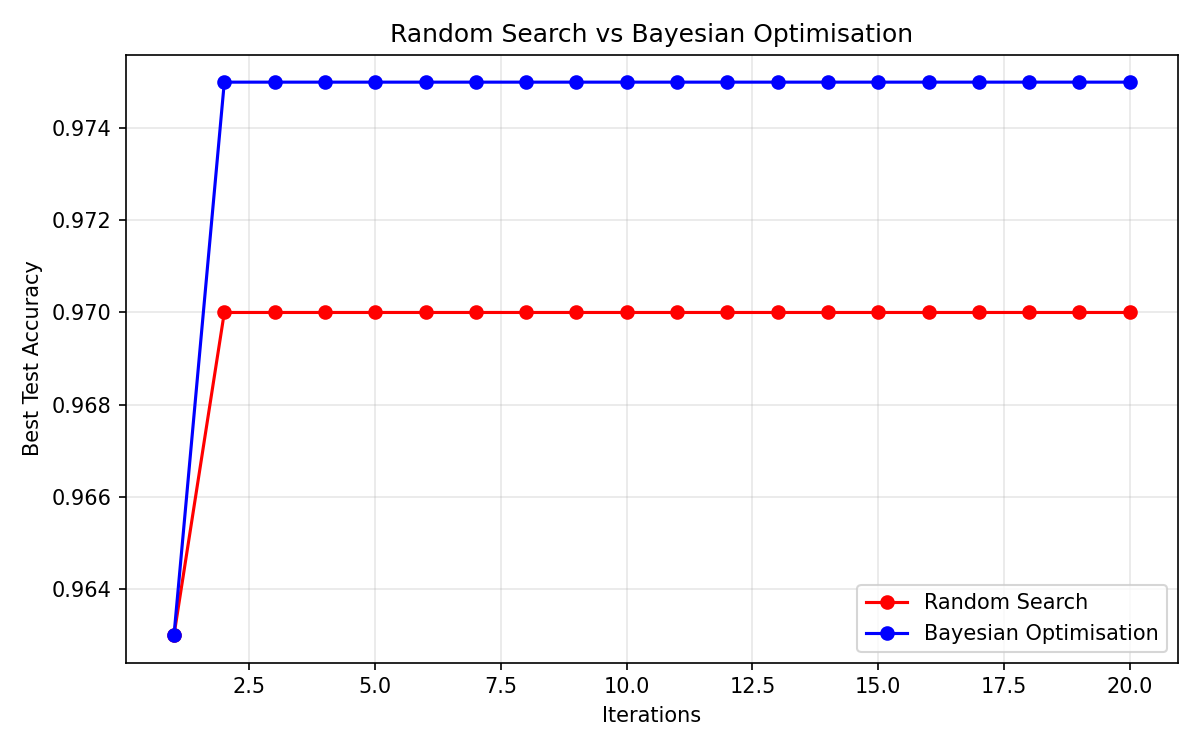
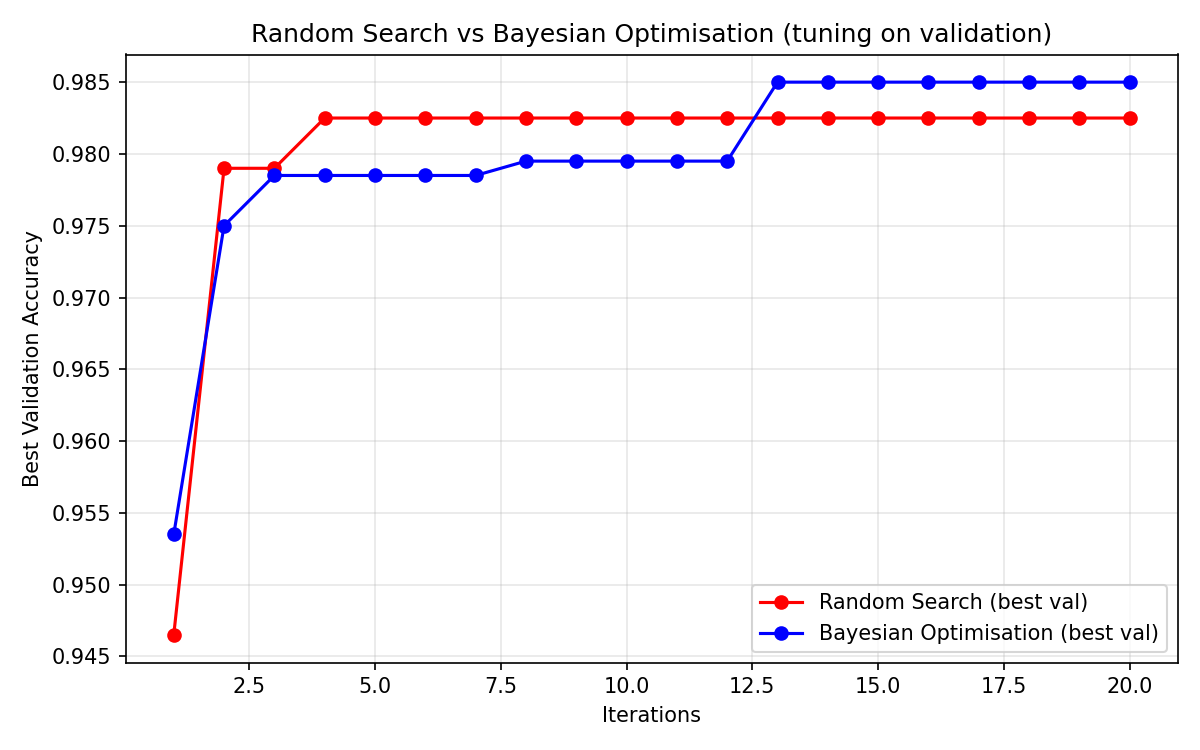
Testing file better

diff --git a/Testing.py b/Testing.py
@@ -4,18 +4,19 @@ import skopt
 from skopt import gp_minimize
 from keras.datasets import mnist
 from keras.models import Sequential
-from keras.layers import Conv2D, MaxPooling2D, Flatten, Dense, Dropout
+from keras.layers import Conv2D, MaxPooling2D, Flatten, Dense, Dropout, Input
 from keras.utils import to_categorical
 from keras.callbacks import EarlyStopping
 from keras.optimizers import Adam
 from skopt.space import Integer, Real
-from keras.layers import Input
+from sklearn.model_selection import train_test_split
 
 np.random.seed(32)
 
 # ── 1. Load & preprocess MNIST ───────────────────────────────────────────────
 (train_X, train_y), (test_X, test_y) = mnist.load_data()
 
+print("Original MNIST Dataset:")
 print('X_train:', train_X.shape)
 print('Y_train:', train_y.shape)
 print('X_test: ', test_X.shape)
@@ -25,119 +26,156 @@ print('Y_test: ', test_y.shape)
 train_X = train_X.reshape(-1, 28, 28, 1).astype('float32') / 255.0
 test_X  = test_X.reshape(-1,  28, 28, 1).astype('float32') / 255.0
 
-# One-hot encode labels - example the digit 3 becomes [0,0,0,1,0,0,0,0,0,0]
+# One-hot encode labels
 train_y_cat = to_categorical(train_y, 10)
 test_y_cat  = to_categorical(test_y,  10)
 
-# Use a subset for speed during BO (full dataset per eval is very slow)
-N_TRAIN = 10_000
-N_TEST  = 2_000
+# Use only a subset of original dataset for better speed during tuning
+N_TRAIN = 10_000 # The subset the model will be trained and tuned on
+N_TEST  = 2_000 # The subset the model will be evaluated on (final evaluation)
 X_tr, y_tr = train_X[:N_TRAIN], train_y_cat[:N_TRAIN]
 X_te, y_te = test_X[:N_TEST],   test_y_cat[:N_TEST]
 
+# Fixed train/validation split ONCE
+X_train, X_val, y_train, y_val = train_test_split(
+    X_tr, y_tr,
+    test_size=0.2,
+    random_state=32,
+    stratify=train_y[:N_TRAIN]
+)
+
+print("\nTuning split:")
+print("X_train:", X_train.shape, "y_train:", y_train.shape)
+print("X_val:  ", X_val.shape,   "y_val:  ", y_val.shape)
+print("X_test: ", X_te.shape,    "y_test: ", y_te.shape)
+
 
 # ── 2. CNN builder ────────────────────────────────────────────────────────────
-def build_and_evaluate(batch_size: int, learning_rate: float, dropout_rate: float, epochs: int = 5) -> float:
-    """Train a small CNN and return test accuracy."""
+def build_model(learning_rate: float, dropout_rate: float) -> Sequential:
     model = Sequential([
-    Input(shape=(28, 28, 1)),   # first layer
-    Conv2D(32, (3, 3), activation='relu'), # reduces spacial size but keeps strong signals
-    MaxPooling2D((2, 2)),
-    Conv2D(64, (3, 3), activation='relu'),
-    MaxPooling2D((2, 2)),
-    Flatten(),
-    Dense(128, activation='relu'),
-    Dropout(dropout_rate), # randomly removes neurons during training to prevent overfitting
-    Dense(10, activation='softmax'), # outputs class proberbilities
+        Input(shape=(28, 28, 1)),
+        Conv2D(32, (3, 3), activation='relu'),
+        MaxPooling2D((2, 2)),
+        Conv2D(64, (3, 3), activation='relu'),
+        MaxPooling2D((2, 2)),
+        Flatten(),
+        Dense(128, activation='relu'),
+        Dropout(dropout_rate),
+        Dense(10, activation='softmax'),
     ])
 
-    # We want to optimize the learning rate when the CNN optimizes it's weights
     optimizer = Adam(learning_rate=learning_rate)
     model.compile(optimizer=optimizer, loss='categorical_crossentropy', metrics=['accuracy'])
-
-    early_stop = EarlyStopping(monitor='val_accuracy', patience=2,
-                               restore_best_weights=True)
-
-    model.fit(X_tr, y_tr,
-              batch_size=int(batch_size),
-              epochs=epochs,
-              validation_split=0.1,
-              callbacks=[early_stop],
-              verbose=0)
-
-    _, acc = model.evaluate(X_te, y_te, verbose=0)
-    return float(acc)
+    return model
 
 
-# ── 3. Random Search baseline (20 iterations) ────────────────────────────────
-print("\n── Random Search ──────────────────────────────────────────────────────")
+def build_and_evaluate(batch_size: int, learning_rate: float, dropout_rate: float, epochs: int = 5) -> float:
+    """Train på X_train og returnér VALIDATION accuracy (X_val)."""
+    model = build_model(learning_rate=learning_rate, dropout_rate=dropout_rate)
+
+    early_stop = EarlyStopping(monitor='val_accuracy', patience=2, restore_best_weights=True)
+
+    model.fit(
+        X_train, y_train,
+        batch_size=int(batch_size),
+        epochs=epochs,
+        validation_data=(X_val, y_val),   # ✅ fixed validation set
+        callbacks=[early_stop],
+        verbose=0
+    )
+
+    _, val_acc = model.evaluate(X_val, y_val, verbose=0)
+    return float(val_acc)
+
+
+def train_final_and_test(batch_size: int, learning_rate: float, dropout_rate: float, epochs: int = 10) -> float:
+    """Træn én gang på (train+val) og evaluer én gang på TEST."""
+    X_final = np.concatenate([X_train, X_val], axis=0)
+    y_final = np.concatenate([y_train, y_val], axis=0)
+
+    model = build_model(learning_rate=learning_rate, dropout_rate=dropout_rate)
+
+    model.fit(
+        X_final, y_final,
+        batch_size=int(batch_size),
+        epochs=epochs,
+        verbose=0
+    )
+
+    _, test_acc = model.evaluate(X_te, y_te, verbose=0)
+    return float(test_acc)
+
+
+# ── 3. Random Search baseline ────────────────────────────────────────────────
+print("\n── Random Search (optimiserer VALIDATION accuracy) ───────────────────")
 
 N_ITER = 20
 rng = np.random.default_rng(32)
+
 random_batch_sizes = rng.integers(16, 257, size=N_ITER)
-random_learning_rates = 10 ** rng.uniform(-4, -2, size=N_ITER)
+random_learning_rates = 10 ** rng.uniform(-4, -2, size=N_ITER)   # mere stabilt end (-4, 2)
 random_dropout_rates = rng.uniform(0.1, 0.5, size=N_ITER)
 
-current_best_acc        = 0.0
-max_acc_per_iter_random = []
+current_best_val = 0.0
+best_random_params = None
+max_val_per_iter_random = []
 
 for i in range(N_ITER):
     bs = int(random_batch_sizes[i])
     lr = float(random_learning_rates[i])
     dr = float(random_dropout_rates[i])
 
-    acc = build_and_evaluate(bs, lr, dr)
+    val_acc = build_and_evaluate(bs, lr, dr)
 
-    if acc > current_best_acc:
-        current_best_acc = acc
+    if val_acc > current_best_val:
+        current_best_val = val_acc
+        best_random_params = (bs, lr, dr)
 
-    max_acc_per_iter_random.append(current_best_acc)
+    max_val_per_iter_random.append(current_best_val)
 
     print(f"  Iter {i+1:>2d}/{N_ITER} | "
-      f"batch_size={bs:>4d} | "
-      f"lr={lr:.5f} | "
-      f"dropout={dr:.2f} | "
-      f"acc={acc:.4f} | "
-      f"best={current_best_acc:.4f}")
+          f"batch_size={bs:>4d} | "
+          f"learning_rate={lr:.6f} | "
+          f"dropout_rate={dr:.2f} | "
+          f"val_acc={val_acc:.4f} | "
+          f"best_val={current_best_val:.4f}")
 
 
 # ── 4. Bayesian Optimisation with skopt ──────────────────────────────────────
-print("\n── Bayesian Optimisation ──────────────────────────────────────────────")
+print("\n── Bayesian Optimisation (optimiserer VALIDATION accuracy) ────────────")
 
-# Search spaces
 space = [
     Integer(16, 256, name='batch_size'),
     Real(1e-4, 1e-2, prior='log-uniform', name='learning_rate'),
     Real(0.1, 0.5, name='dropout_rate')
 ]
 
-# Seed BO with the first random search point so comparison is fair
-x0 = [[random_batch_sizes[0]]]      # list of points, each point is a list
-y0 = [-max_acc_per_iter_random[0]]  # flat scalar (skopt minimises, so negate accuracy)
-
-bo_iter = [1]  # use list to allow mutation inside nested function
+bo_iter = [1]
 
 def objective_function(x):
-    """Objective for skopt: takes [batch_size] and [learning_rate], returns -accuracy."""
-    batch_size  = x[0]
-    learning_rate = x[1]
-    dropout_rate = x[2]
+    batch_size, learning_rate, dropout_rate = x
+    val_acc = build_and_evaluate(batch_size, learning_rate, dropout_rate)
 
-    acc = build_and_evaluate(batch_size, learning_rate, dropout_rate)
-    print(f"  Iter {bo_iter[0]:>2d}/20 | "
+    print(f"  Iter {bo_iter[0]:>2d}/{N_ITER} | "
           f"batch_size={batch_size:>4d} | "
-          f"learning_rate={learning_rate:.5f} | "
+          f"learning_rate={learning_rate:.6f} | "
           f"dropout_rate={dropout_rate:.2f} | "
-          f"acc={acc:.4f}")
+          f"val_acc={val_acc:.4f}")
     bo_iter[0] += 1
-    return -acc
+    return -val_acc  # skopt minimerer
 
 np.int = int  # numpy deprecation workaround required by skopt
+
+# ✅ Seed BO korrekt: 1 observation (x0/y0) + (N_ITER-1) nye calls = N_ITER total
+x0 = [[int(random_batch_sizes[0]), float(random_learning_rates[0]), float(random_dropout_rates[0])]]
+y0 = [-build_and_evaluate(*x0[0])]
 
 opt = gp_minimize(
     objective_function,
     space,
-    n_calls=20,
+    n_calls=N_ITER - 1,     # ✅ vigtig: ellers får du 21 punkter
+    x0=x0,
+    y0=y0,
     acq_func="EI",
     n_initial_points=5,
     random_state=32,
@@ -145,26 +183,35 @@ opt = gp_minimize(
     noise=0.01**2,
 )
 
+# ── 5. Resultater ────────────────────────────────────────────────────────────
+best_bs, best_lr, best_dr = opt.x
+best_bo_val = -opt.fun
 
-# ── 5. Results ────────────────────────────────────────────────────────────────
-best_bs  = opt.x[0]
-best_acc = -opt.fun
+print(f"\n── Best hyperparametre (målt på VALIDATION) ─────────────────────────")
+print(f"  Random best params: batch={best_random_params[0]}, lr={best_random_params[1]:.6f}, dr={best_random_params[2]:.2f}")
+print(f"  BO best params    : batch={best_bs}, lr={best_lr:.6f}, dr={best_dr:.2f}")
+print(f"  BO best val_acc   : {best_bo_val:.4f}")
 
-print(f"\n── Best result ──────────────────────────────────────────────────────")
-print(f"  Best batch_size : {best_bs}")
-print(f"  Best test acc   : {best_acc:.4f}")
+# ✅ FINAL: Test evalueres én gang per metode
+random_test_acc = train_final_and_test(*best_random_params, epochs=10)
+bo_test_acc     = train_final_and_test(best_bs, best_lr, best_dr, epochs=10)
+
+print(f"\n── FINAL unbiased TEST (evalueret én gang) ───────────────────────────")
+print(f"  Random Search TEST acc: {random_test_acc:.4f}")
+print(f"  Bayesian Opt TEST acc : {bo_test_acc:.4f}")
 
 
-# ── 6. Plot 1: Random Search vs Bayesian Optimisation ────────────────────────
+# ── 6. Plot 1: Random Search vs Bayesian Optimisation (VAL curves) ───────────
 y_bo = np.maximum.accumulate(-opt.func_vals).ravel()
-xs   = np.arange(1, N_ITER + 1)
+
+xs = np.arange(1, N_ITER + 1)  # nu passer det, fordi y_bo også har N_ITER punkter
 
 plt.figure(figsize=(8, 5))
-plt.plot(xs, max_acc_per_iter_random, 'o-', color='red',  label='Random Search')
-plt.plot(xs, y_bo,                   'o-', color='blue', label='Bayesian Optimisation')
+plt.plot(xs, max_val_per_iter_random, 'o-', color='red',  label='Random Search (best val)')
+plt.plot(xs, y_bo,                   'o-', color='blue', label='Bayesian Optimisation (best val)')
 plt.xlabel('Iterations')
-plt.ylabel('Best Test Accuracy')
-plt.title('Random Search vs Bayesian Optimisation')
+plt.ylabel('Best Validation Accuracy')
+plt.title('Random Search vs Bayesian Optimisation (tuning on validation)')
 plt.legend()
 plt.grid(True, alpha=0.3)
 plt.tight_layout()
@@ -173,37 +220,36 @@ plt.show()
 print("Plot saved to bo_vs_random.png")
 
 
-# ── 7. Plot 2: GP Surrogate + Acquisition Function ───────────────────────────
+
+
+# ── 7. Plot 2: GP Surrogate + Acquisition Function (kun batch dimension) ─────
 gp_model  = opt.models[-1]
-grid      = np.arange(16, 257).reshape(-1, 1)
+grid      = np.arange(16, 256).reshape(-1, 1)
 grid_norm = np.array([opt.space[0][1].transform(x) for x in grid.ravel()]).reshape(-1, 1)
 
 ye, ye_std = gp_model.predict(X=grid_norm, return_std=True)
-ye     = -np.array(ye).ravel()     # flip sign back to accuracy
+ye     = -np.array(ye).ravel()
 ye_std =  np.array(ye_std).ravel()
 
 fig, axes = plt.subplots(1, 3, figsize=(16, 5))
 
-# Surrogate mean
 axes[0].plot(grid, ye, color='steelblue')
 axes[0].fill_between(grid.ravel(), ye - 2*ye_std, ye + 2*ye_std,
                      alpha=0.2, color='steelblue', label='±2σ')
 axes[0].scatter([x[0] for x in opt.x_iters], -opt.func_vals,
                 color='red', zorder=5, label='Observations')
 axes[0].set_xlabel('Batch Size')
-axes[0].set_ylabel('Predicted Accuracy')
+axes[0].set_ylabel('Predicted Validation Accuracy')
 axes[0].set_title('Surrogate Function (GP mean)')
 axes[0].legend()
 axes[0].grid(True, alpha=0.3)
 
-# Surrogate std
 axes[1].plot(grid, ye_std, color='orange')
 axes[1].set_xlabel('Batch Size')
 axes[1].set_ylabel('Standard Deviation')
 axes[1].set_title('Surrogate Function Std Dev')
 axes[1].grid(True, alpha=0.3)
 
-# Acquisition function (EI)
 acq_val = skopt.acquisition.gaussian_ei(
     X=grid_norm, model=gp_model, xi=0.1,
     y_opt=opt.fun, return_grad=False
